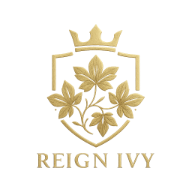
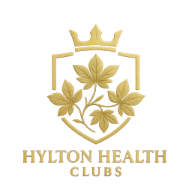
make a generic app

diff --git a/src/App.js b/src/App.js
@@ -1095,6 +1095,15 @@ const Toast = styled.div`
   transition: opacity 0.3s;
 `;
 
+// Business configuration from environment variables
+const BUSINESS_NAME = process.env.REACT_APP_BUSINESS_NAME;
+const BUSINESS_LOGO = process.env.REACT_APP_BUSINESS_LOGO;
+const BUSINESS_EMAIL = process.env.REACT_APP_BUSINESS_EMAIL;
+const BUSINESS_PHONE = process.env.REACT_APP_BUSINESS_PHONE;
+const BUSINESS_ADDRESS = process.env.REACT_APP_BUSINESS_ADDRESS;
+const BUSINESS_CITY = process.env.REACT_APP_BUSINESS_CITY;
+const BUSINESS_COUNTRY = process.env.REACT_APP_BUSINESS_COUNTRY;
+
 function App() {
   const [menuOpen, setMenuOpen] = useState(false);
   const [faqOpen, setFaqOpen] = useState(null);
@@ -1337,7 +1346,7 @@ function App() {
       <Navbar>
         <NavContainer>
           <Logo>
-            <img src="logo.png" alt="Reign Ivy" />
+            <img src={BUSINESS_LOGO} alt={BUSINESS_NAME} />
           </Logo>
           <DesktopNavLinks>
             <NavLink onClick={() => scrollToSection("services")}>
@@ -1550,7 +1559,7 @@ function App() {
             <TestimonialCarousel>
               <TestimonialCard $active={currentTestimonial === 0}>
                 <TestimonialText>
-                  "The personalized coaching at Reign Ivy has completely
+                  "The personalized coaching at {BUSINESS_NAME} has completely
                   transformed my approach to fitness. The attention to detail
                   and expert guidance has helped me achieve goals I never
                   thought possible."
@@ -1788,8 +1797,8 @@ function App() {
           <div style={{ display: "flex", alignItems: "center", gap: "30px" }}>
             <div>
               <img
-                src="logo.png"
-                alt="Reign Ivy"
+                src={BUSINESS_LOGO}
+                alt={BUSINESS_NAME}
                 style={{
                   height: "120px",
                   width: "auto",
@@ -1811,16 +1820,16 @@ function App() {
                 Contact Info
               </h4>
               <p style={{ margin: "0 0 8px 0", color: "#ffffff" }}>
-                123 Wellness Avenue
+                {BUSINESS_ADDRESS}
                 <br />
-                Purley, Surrey CR8 1AB
+                {BUSINESS_CITY}
                 <br />
-                United Kingdom
+                {BUSINESS_COUNTRY}
               </p>
               <p style={{ margin: "0 0 8px 0", color: "#ffffff" }}>
-                <strong>Phone:</strong> (555) 123-4567
+                <strong>Phone:</strong> {BUSINESS_PHONE}
                 <br />
-                <strong>Email:</strong> info@reignivy.com
+                <strong>Email:</strong> {BUSINESS_EMAIL}
               </p>
             </div>
           </div>
@@ -1915,8 +1924,7 @@ function App() {
           }}
         >
           <p style={{ fontSize: "0.9rem", opacity: "0.6", margin: "0" }}>
-            © {new Date().getFullYear()} Reign Ivy Wellness. All rights
-            reserved. |
+            © {new Date().getFullYear()} {BUSINESS_NAME}. All rights reserved. |
             <button
               type="button"
               style={{
@@ -2121,13 +2129,13 @@ function App() {
               <strong>Your Rights:</strong>
               <br />
               You may request to access, update, or delete your personal
-              information by contacting us at info@reignivy.com.
+              information by contacting us at {BUSINESS_EMAIL}
             </p>
             <p>
               <strong>Contact:</strong>
               <br />
-              For any privacy-related questions, please contact us at
-              info@reignivy.com.
+              For any privacy-related questions, please contact us at{" "}
+              {BUSINESS_EMAIL}
             </p>
             <p>
               This policy may be updated from time to time. Please review it
@@ -2158,8 +2166,9 @@ function App() {
               <strong>Terms of Service</strong>
             </p>
             <p>
-              By using the Reign Ivy Wellness website and services, you agree to
-              the following terms and conditions. Please read them carefully.
+              By using the {BUSINESS_NAME} Wellness website and services, you
+              agree to the following terms and conditions. Please read them
+              carefully.
             </p>
             <p>
               <strong>Use of Services:</strong>
@@ -2171,8 +2180,8 @@ function App() {
             <p>
               <strong>Intellectual Property:</strong>
               <br />
-              All content, trademarks, and data on this site are the property of
-              Reign Ivy Wellness or its licensors. You may not reproduce,
+              All content, trademarks, and data on this site are the property of{" "}
+              {BUSINESS_NAME} Wellness or its licensors. You may not reproduce,
               distribute, or create derivative works without our written
               permission.
             </p>
@@ -2192,8 +2201,8 @@ function App() {
             <p>
               <strong>Contact:</strong>
               <br />
-              For questions about these terms, please contact us at
-              info@reignivy.com.
+              For questions about these terms, please contact us at{" "}
+              {BUSINESS_EMAIL}
             </p>
           </div>
         </ModalContent>

diff --git a/public/index.html b/public/index.html
@@ -31,7 +31,7 @@
       work correctly both with client-side routing and a non-root public URL.
       Learn how to configure a non-root public URL by running `npm run build`.
     -->
-    <title>Reign Ivy</title>
+    <title>%REACT_APP_BUSINESS_NAME%</title>
     <style>
       .grecaptcha-badge {
         z-index: 3001 !important;

diff --git a/README.md b/README.md
@@ -1,6 +1,6 @@
-# Reign Ivy Wellness Landing Page
+# Wellness Landing Page
 
-A modern, responsive landing page for Reign Ivy Wellness - a premium fitness and wellness center located in Purley, Surrey. This React-based application showcases the facility's services, team, pricing plans, and provides seamless contact forms with reCAPTCHA protection.
+A modern, responsive landing page for wellness and fitness businesses. This React-based application showcases facility services, team members, pricing plans, and provides seamless contact forms with reCAPTCHA protection.
 
 ## 🏋 Features
 
@@ -68,10 +68,22 @@ A modern, responsive landing page for Reign Ivy Wellness - a premium fitness and
 3. **Environment Variables**
    Create a `.env` file in the root directory:
    ```env
+   # EmailJS Configuration
    REACT_APP_EMAILJS_SERVICE_ID=your_emailjs_service_id
    REACT_APP_EMAILJS_TEMPLATE_ID=your_emailjs_template_id
    REACT_APP_EMAILJS_PUBLIC_KEY=your_emailjs_public_key
+   
+   # reCAPTCHA Configuration
    REACT_APP_RECAPTCHA_SITE_KEY=your_recaptcha_site_key
+   
+   # Business Configuration
+   REACT_APP_BUSINESS_NAME=Your Business Name
+   REACT_APP_BUSINESS_LOGO=your-logo.png
+   REACT_APP_BUSINESS_EMAIL=info@yourbusiness.com
+   REACT_APP_BUSINESS_PHONE=(555) 123-4567
+   REACT_APP_BUSINESS_ADDRESS=123 Your Street
+   REACT_APP_BUSINESS_CITY=Your City, State ZIP
+   REACT_APP_BUSINESS_COUNTRY=Your Country
    ```
 
 4. **Start development server**
@@ -197,11 +209,11 @@ This project is licensed under the MIT License - see the [LICENSE](LICENSE) file
 
 ## 📞 Contact
 
-For questions about this project:
-- **Email**: info@reignivy.com
-- **Phone**: (555) 123-4567
-- **Address**: 123 Wellness Avenue, Purley, Surrey CR8 1AB, United Kingdom
+For questions about this project, please refer to the business contact information configured in your environment variables:
+- **Email**: Set via `REACT_APP_BUSINESS_EMAIL`
+- **Phone**: Set via `REACT_APP_BUSINESS_PHONE`
+- **Address**: Set via `REACT_APP_BUSINESS_ADDRESS`, `REACT_APP_BUSINESS_CITY`, `REACT_APP_BUSINESS_COUNTRY`
 
 ---
 
-Built with ❤ for Reign Ivy Wellness 
+Built with ❤ for wellness businesses
